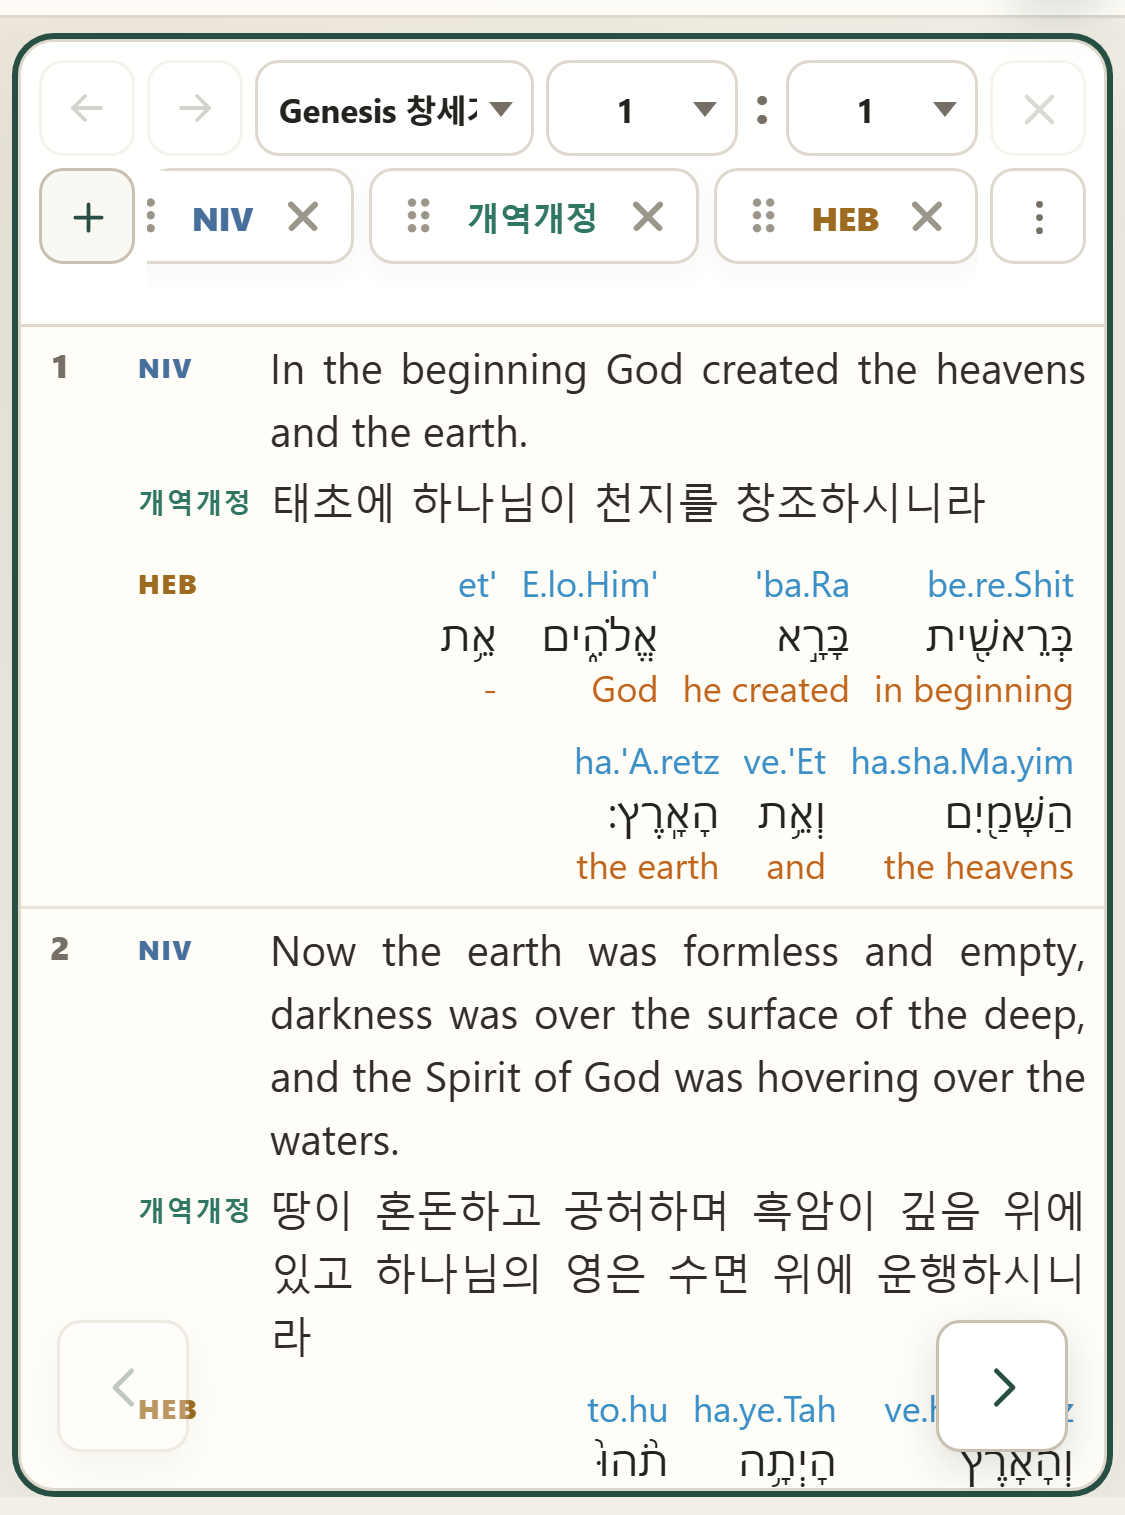
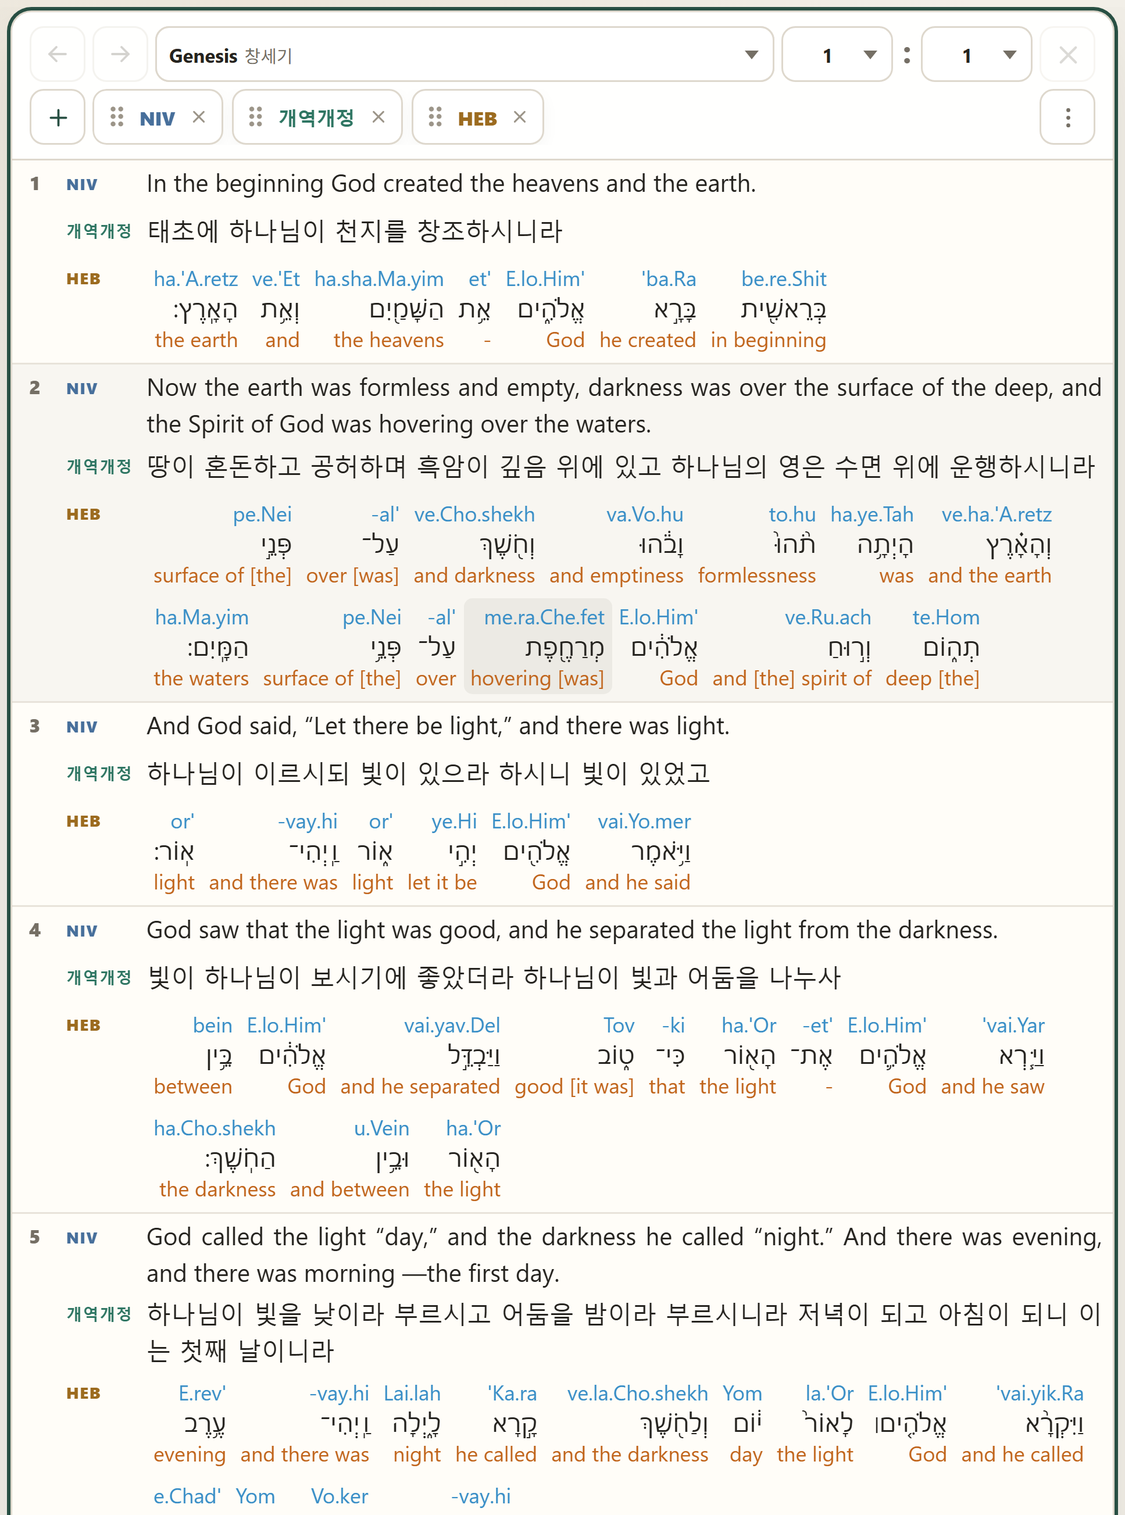
Update Info dialog 4.3 title and recapture two stale example screenshots
- 4.3's title (both the nav item and section heading) is now "Version
  Highlight / Hide", matching what that toggle actually does now
  (dimming a version removes its text entirely rather than graying it).
- Recaptured panel-mute-niv.png (4.3's right-hand example) to reflect
  that: NIV's own line is gone from every verse instead of rendered in
  pale gray.
- Recaptured panel-heb-shown.png (4.5's left-hand example) to reflect
  the Hebrew interlinear row's own left-aligned packing fix -- it no
  longer floats flush against the panel's right edge.

Both recaptured at the same device-pixel-ratio as the existing set
(reverse-engineered from the panel's own active-state border width,
which is a fixed CSS thickness) and resized to the exact pixel
dimensions of the image each one replaces, so panel/text size and
proportions match the rest of the Info dialog's screenshots exactly.

Changed region(s): [[0.0, 0.0, 0.9956, 1.0], [0.0622, 0.8066, 0.0933, 0.8686]]

diff --git a/index.html b/index.html
@@ -23,7 +23,7 @@
     <meta name="twitter:title" content="United Bibles" />
     <meta name="twitter:description" content="A compact multi-panel Bible reader" />
     <meta name="twitter:image" content="https://unitedbibles.org/icons/icon-512.png" />
-    <meta name="asset-version" content="20260917-5" />
+    <meta name="asset-version" content="20260917-6" />
     <meta name="theme-color" content="#284f43" />
     <meta name="apple-mobile-web-app-capable" content="yes" />
     <meta name="apple-mobile-web-app-status-bar-style" content="default" /> 
@@ -32,7 +32,7 @@
     <link rel="manifest" href="./manifest.webmanifest" />
     <link rel="icon" type="image/png" href="./icons/icon-192.png" />
     <link rel="apple-touch-icon" sizes="180x180" href="./icons/icon-180.png" />
-    <link rel="stylesheet" href="./styles.css?v=20260917-5" />
+    <link rel="stylesheet" href="./styles.css?v=20260917-6" />
     <!-- Applies the saved theme before first paint so a dark-theme visitor
          never sees a light-theme flash while app.js's module script (and
          its manifest.json fetch) is still loading. Reads the same
@@ -955,7 +955,7 @@
               <button type="button" class="info-nav-item info-nav-item--top" data-info-target="info-section-4">4. Bible Versions</button>
               <button type="button" class="info-nav-item" data-info-target="info-section-4-1">4.1 Add Version</button>
               <button type="button" class="info-nav-item" data-info-target="info-section-4-2">4.2 Reorder Versions</button>
-              <button type="button" class="info-nav-item" data-info-target="info-section-4-3">4.3 Version Highlight / Mute</button>
+              <button type="button" class="info-nav-item" data-info-target="info-section-4-3">4.3 Version Highlight / Hide</button>
               <button type="button" class="info-nav-item" data-info-target="info-section-4-4">4.4 Modern Translations</button>
               <button type="button" class="info-nav-item" data-info-target="info-section-4-5">4.5 Hebrew / Greek</button>
               <button type="button" class="info-nav-item" data-info-target="info-section-4-6">4.6 Study</button>
@@ -1061,7 +1061,7 @@
               </section>
 
               <section class="info-section" id="info-section-4-3">
-                <h3 class="info-section-heading">4.3 Version Highlight / Mute</h3>
+                <h3 class="info-section-heading">4.3 Version Highlight / Hide</h3>
                 <p class="info-body-text">Click a version icon at the top of the panel to highlight or mute that version's text.</p>
                 <p class="info-body-text"><img class="info-chip-icon" src="./assets/info/icon-tr-NIV-highlight.png" alt="NIV version icon, highlighted" /> Highlighted version icon</p>
                 <p class="info-body-text"><img class="info-chip-icon" src="./assets/info/icon-tr-NIV-mute.png" alt="NIV version icon, muted" /> Muted version icon</p>
@@ -1644,6 +1644,6 @@
     </div>
 
     <noscript>JavaScript is required to display the Bible text.</noscript>
-    <script type="module" src="./app.js?v=20260917-5"></script>
+    <script type="module" src="./app.js?v=20260917-6"></script>
   </body>
 </html>
